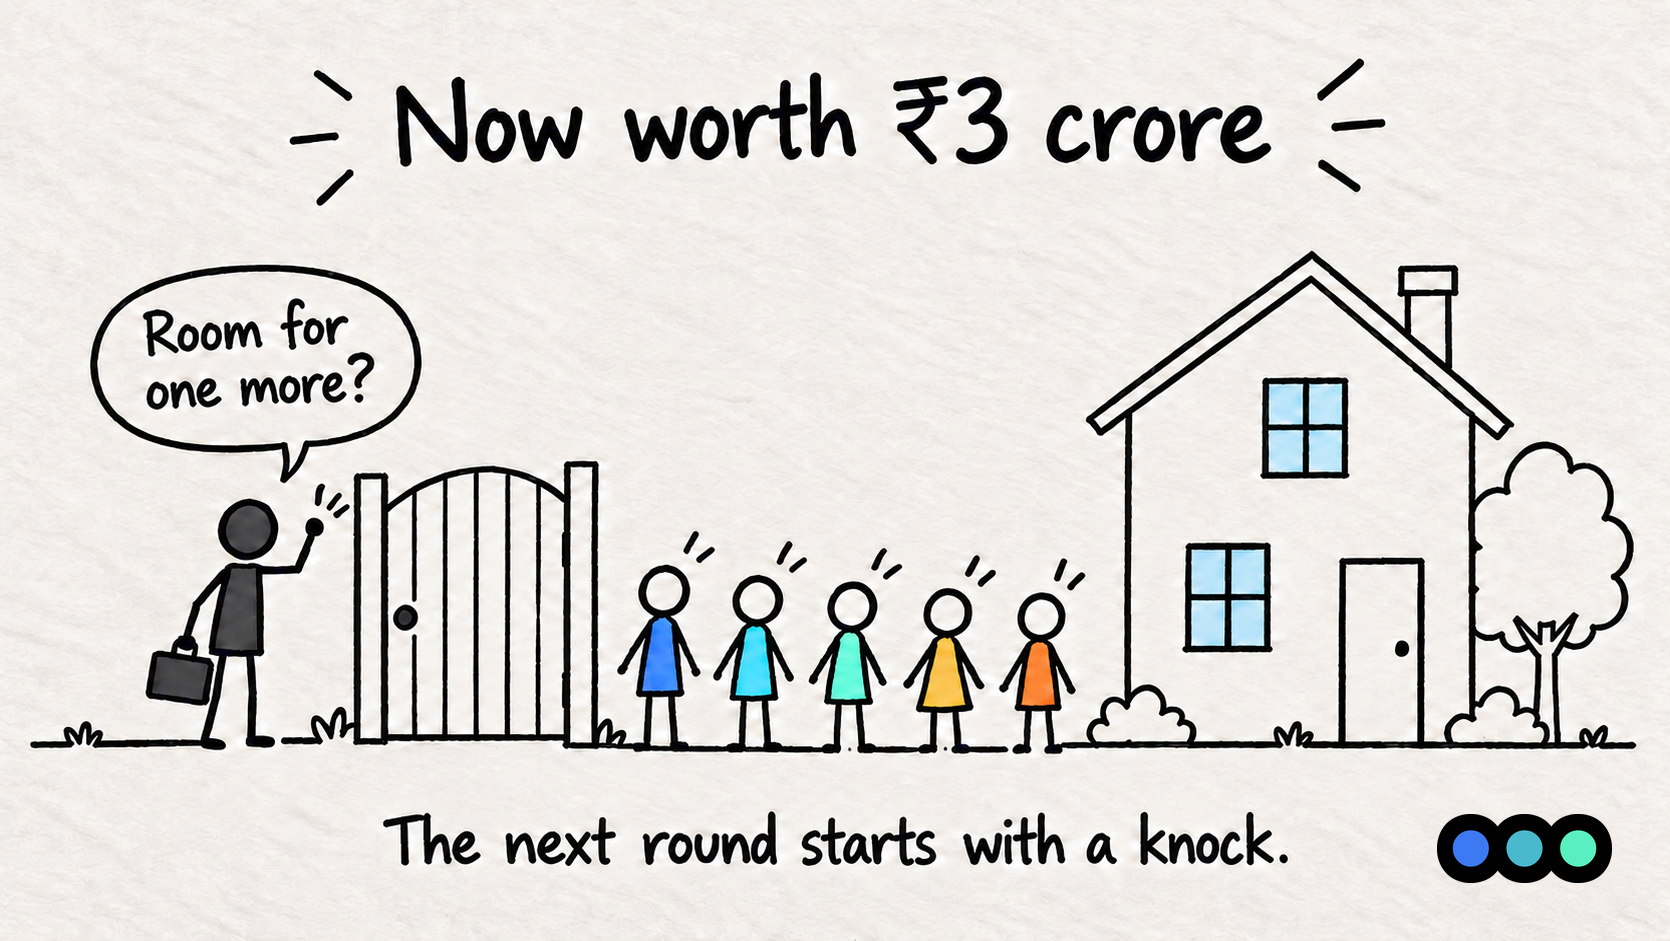
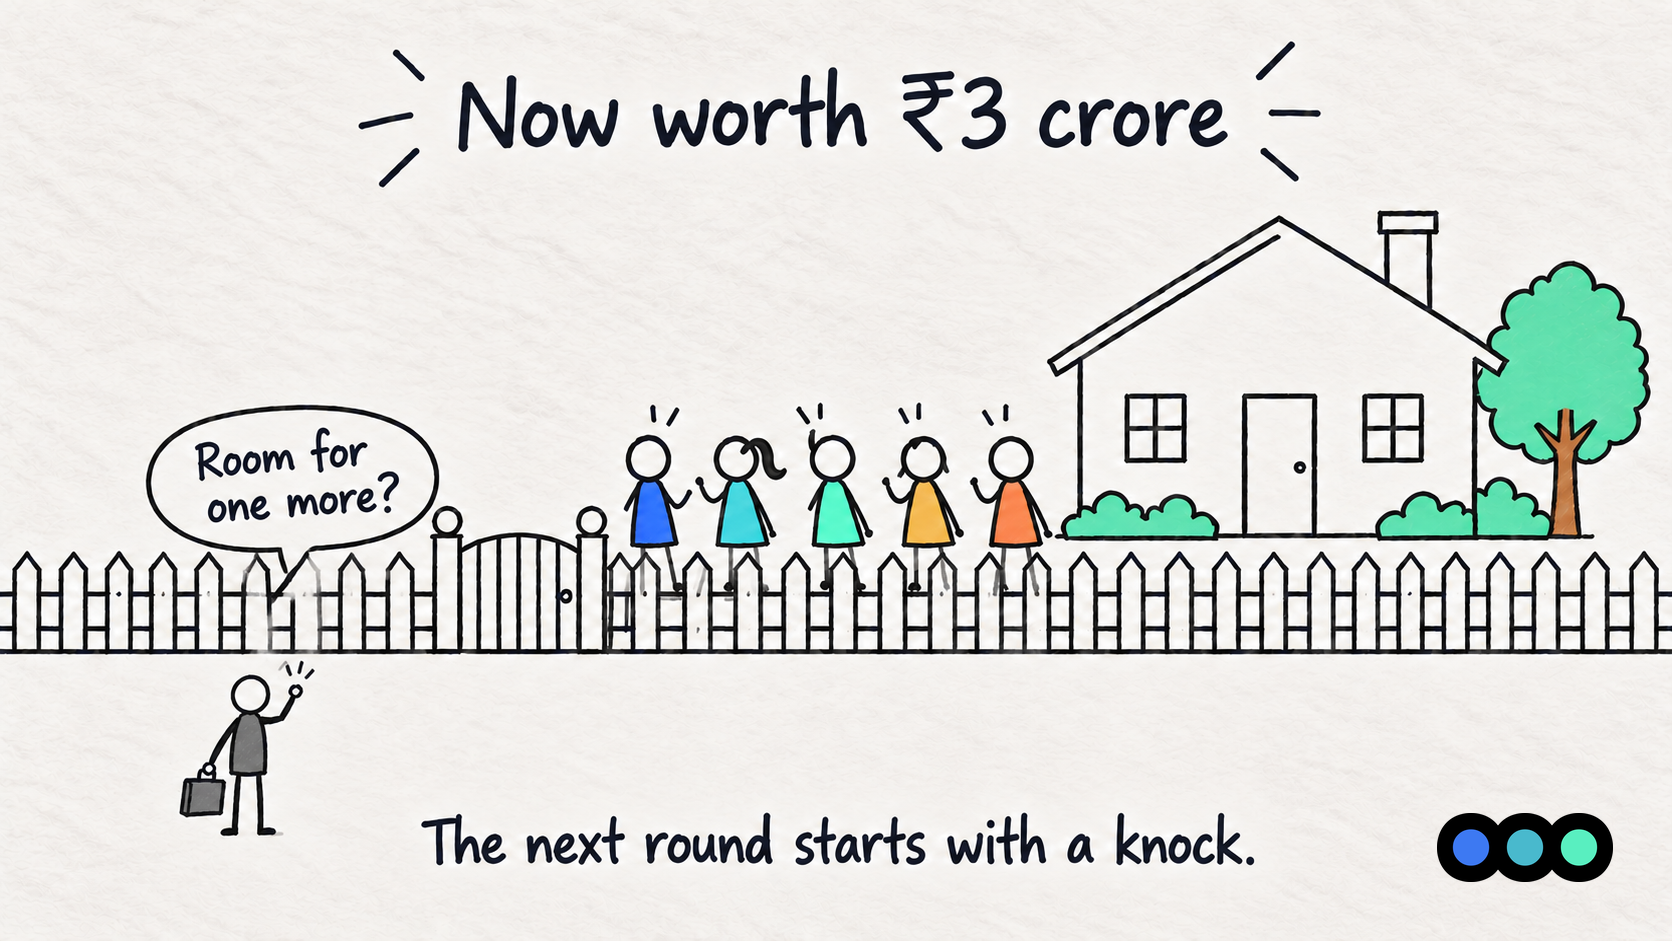
Swap in the regenerated Part 4 cover
The fence now runs edge to edge with the gate set into it, so there is
an inside and an outside. Same file name, so the card, the slider, the
sidebar and the link preview all pick it up. <img> width corrected to
1672.

diff --git a/blog-someone-else-wants-in.html b/blog-someone-else-wants-in.html
@@ -90,7 +90,7 @@ height="0" width="0" style="display:none;visibility:hidden"></iframe></noscript>
       </div>
 
       <figure class="post-figure">
-        <img src="Assets/blog/post-04-scene-1-gauri-at-the-gate.png" alt="A napkin sketch of a renovated house now worth three crore rupees, with five friends inside the garden and a new investor at the gate holding a briefcase, asking room for one more." width="1670" height="941">
+        <img src="Assets/blog/post-04-scene-1-gauri-at-the-gate.png" alt="A napkin sketch of a renovated house now worth three crore rupees, with five friends inside the garden and a new investor at the gate holding a briefcase, asking room for one more." width="1672" height="941">
       </figure>
 
       <div class="post-tldr">
